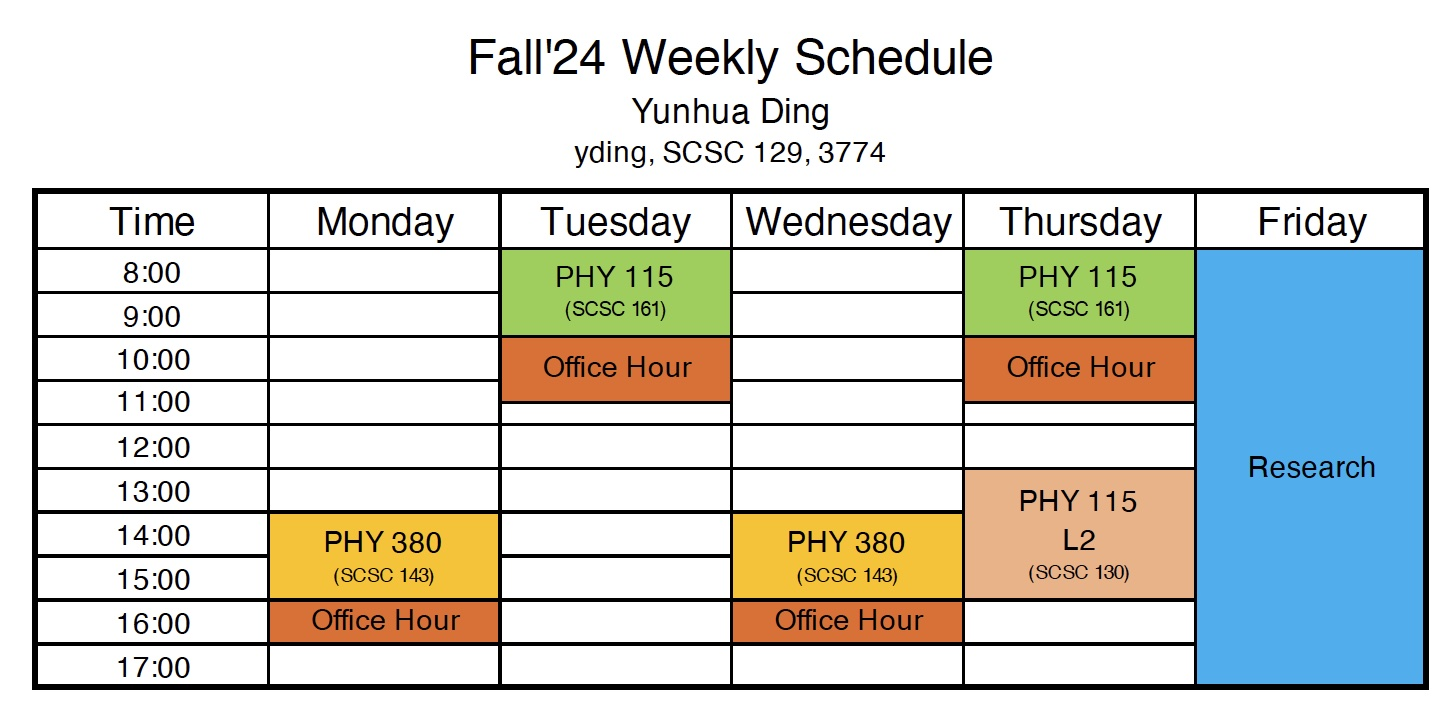
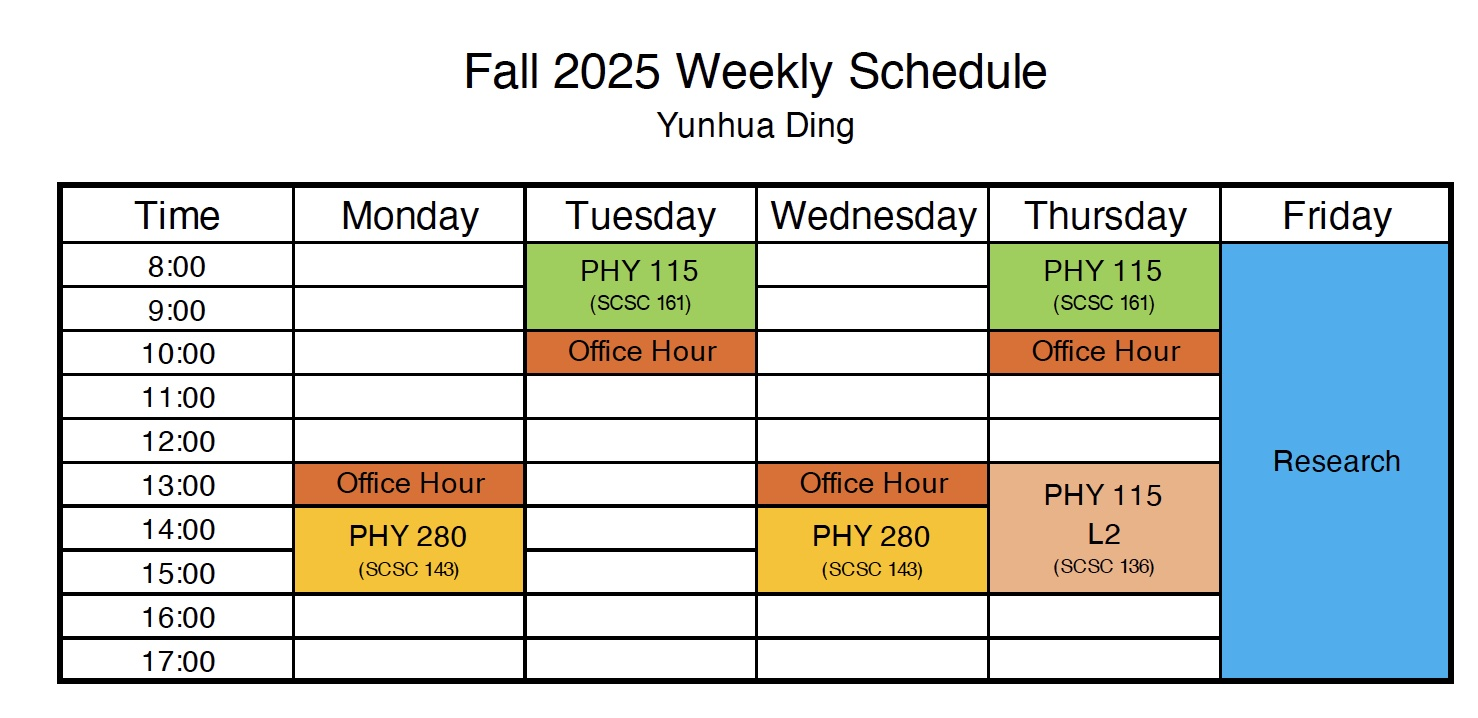
Add files via upload

Changed region(s): [[0.0, 0.0306, 0.9917, 0.9805]]

diff --git a/teaching.html b/teaching.html
@@ -49,10 +49,10 @@
 			<table>
 				<tr valign="left">
 					<td width="150px">
-					Fall 2024
+					Fall 2025
 				</td>
 				<td>
-					P380 Quantum Mechanics I  
+					P280 Contemporary Physics 
 					</td>
 					</tr>
 					<tr valign="top">
@@ -81,6 +81,54 @@
 		<div class="CVsec">
 			<u>Ohio Wesleyan University</u><br />
 		<table>
+			
+			<tr valign="left">
+				<td width="100px">
+				Spring 2025/2023
+			</td>
+			<td>
+			P310 Mechanics
+			</td>
+			</tr>
+			<tr valign="top">
+				<td width="100px">
+			 </td>
+			 <td>
+			P116 Principles of Physics II
+			</td>
+			</tr>
+			<tr valign="top">
+				<td width="100px">
+			 </td>
+			 <td>
+			P116L Principles of Physics II
+			</td>
+			</tr>
+
+
+			<tr valign="left">
+				<td width="150px">
+				Fall 2024
+			</td>
+			<td>
+				P380 Quantum Mechanics I  
+				</td>
+				</tr>
+				<tr valign="top">
+					<td width="100px">
+				 </td>
+				 <td>
+				P115 Principles of Physics I
+				</td>
+				</tr>
+				<tr valign="top">
+					<td width="100px">
+				 </td>
+				 <td>
+				P115L Principles of Physics I
+				</td>
+				</tr>	
+
 			<tr valign="left">
 				<td width="150px">
 				Spring 2024 
@@ -92,7 +140,7 @@
 
 			<tr valign="left">
 				<td width="150px">
-				Fall 2023/Fall 2022
+				Fall 2023/2022
 			</td>
 			<td>
 				P280 Contemporary Physics 
@@ -113,28 +161,7 @@
 				</td>
 				</tr>
 
-			<tr valign="left">
-				<td width="100px">
-				Spring 2023
-			</td>
-			<td>
-			P310 Mechanics
-			</td>
-			</tr>
-			<tr valign="top">
-				<td width="100px">
-			 </td>
-			 <td>
-			P116 Principles of Physics II
-			</td>
-			</tr>
-			<tr valign="top">
-				<td width="100px">
-			 </td>
-			 <td>
-			P116L Principles of Physics II
-			</td>
-			</tr>
+		
 
 
 		</table>

diff --git a/research.html b/research.html
@@ -60,13 +60,19 @@
 		<br><br><br><br><br><br>
 
 		<br><br>Current students<br><br>
+		<img src="./images/Janik Dixon.jpg" alt="[img: title image - Janik Dixon]" class="framed" width="150px" style="padding-right: 40px; float:left"/>  
+		<br><br><br><br><br>
+		Janik Dixon '27, Ohio Wesleyan University<br>
+		May 2025 &ndash; present 
+		<br><br><br><br><br><br><br>
+
+
 		<img src="./images/Parthey Vasani.jpg" alt="[img: title image - Parthey Vasani]" class="framed" width="150px" style="padding-right: 40px; float:left"/>  
 		<br><br><br><br>
 		Parthey Vasani '26, Ohio Wesleyan University<br>
 		May 2024 &ndash; present 
 		<br><br><br><br><br><br>
 		
-
 		<br><br>Past students<br><br>
 		<img src="./images/Kaito Iwasaki.jpg" alt="[img: title image - Kaito Iwasaki]" class="framed" width="150px" style="padding-right: 40px; float:left"/>  
 		<br><br><br><br>
@@ -80,7 +86,6 @@
 		Isaac Blacklow '25, Claremont McKenna College<br>
 		Sept. 2021 &ndash; May 2022
 		<br><br><br><br><br><br>
-
 
 		<img src="./images/Teague Olewiler.jpg" alt="[img: title image - Teague Olewiler]" class="framed" width="150px" style="padding-right: 40px; float:left"/>  
 		<br><br><br><br>
@@ -103,6 +108,14 @@
 			
 			<!-- <div class="publist"><br />20. <div class="pubitem"></div>-- pubitem --</div>-- publist -->  
 			<ol reversed="reversed">
+				<li>
+					<!-- 9 -->
+					Relativistic Spin Precession in Homogeneous Background Fields,<br /> 
+					Yunhua Ding, V.A. Kostelecký, and Arnaldo J. Vargas, <br />
+					accepted for publication in Phys. Lett. B.
+					</li>
+					<br />
+
 				<li>
 				<!-- 9 -->
 				Lorentz- and CPT-Violating Effects in Penning Traps at Linear Boost,<br /> 

diff --git a/index.html b/index.html
@@ -62,7 +62,7 @@
 	<br>
 	<br>
 	<p style="text-align: right">
-		<font size="2.5"><i>Last updated: Aug. 15, 2024.</i></font>
+		<font size="2.5"><i>Last updated: May. 21, 2025.</i></font>
 	</p>
 
     </div><!--posts-->
